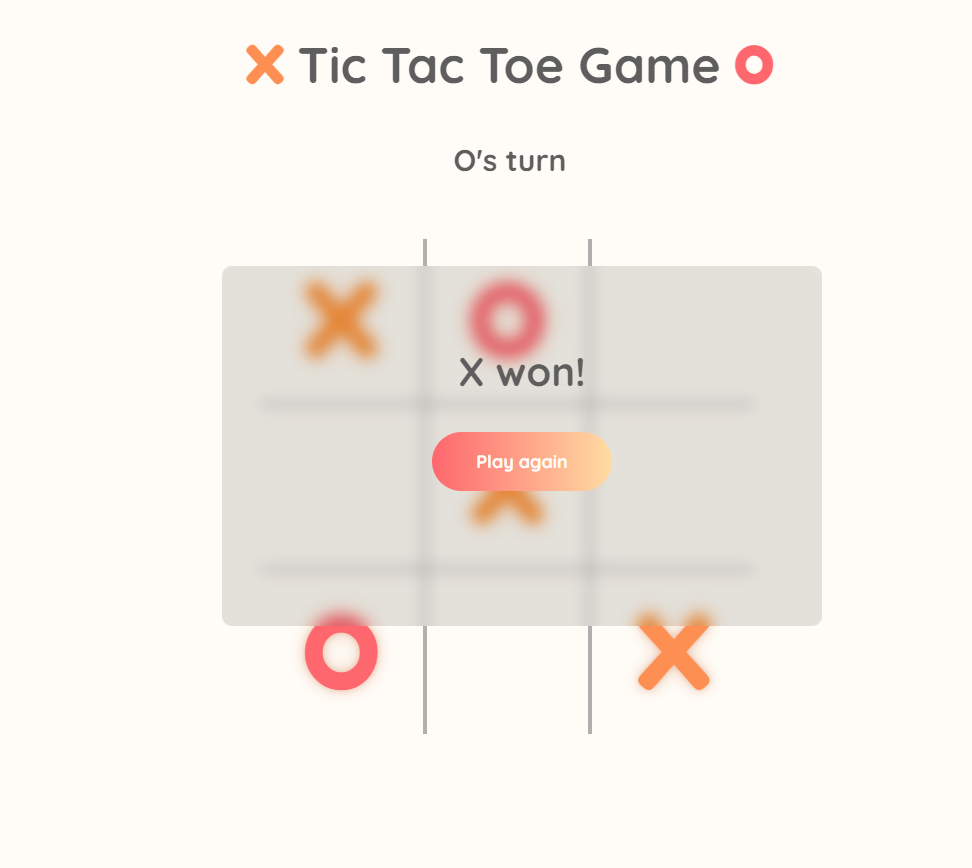
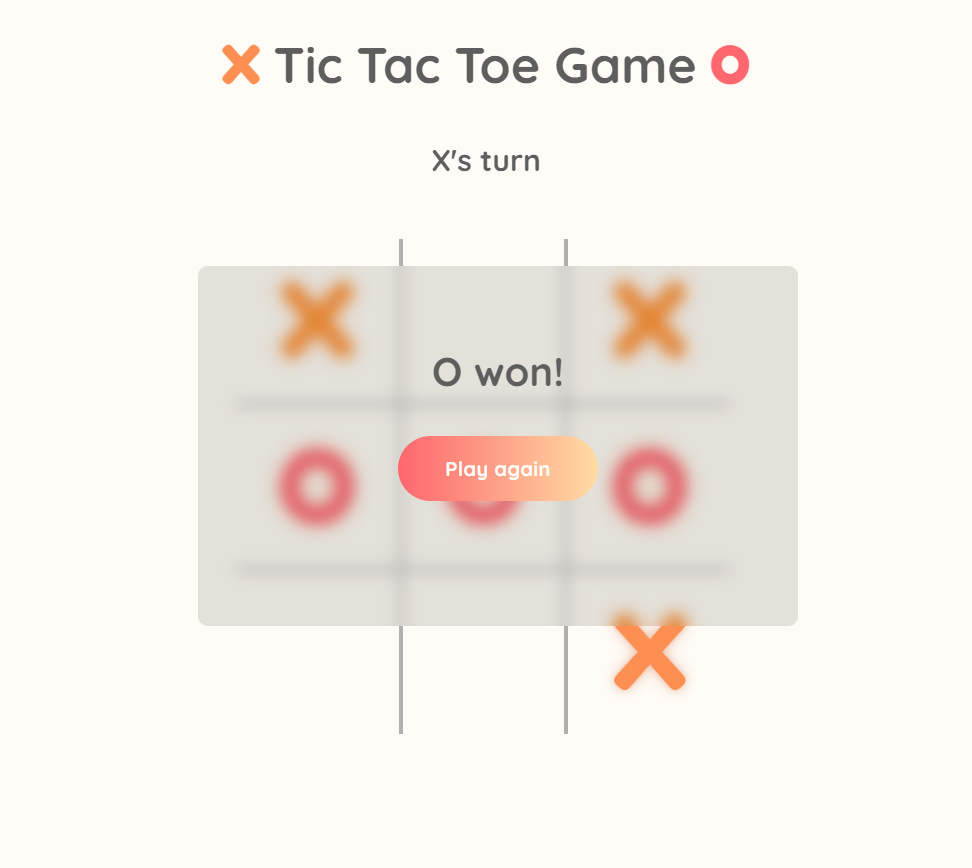
Week 6 Assignment 2 | Assignment has been updated

diff --git a/main.js b/main.js
@@ -1,5 +1,5 @@
 //Oyundaki tum kareler secilir
-let tiles = Array.from(document.querySelectorAll(".tile"));
+let tiles = document.querySelectorAll(".tile");
 //Siranin hangi oyuncuda oldugunu gosteren alan secilir
 let playerTurn = document.querySelector(".player__turn");
 let gameResult = document.querySelector(".game-result__text");
@@ -8,7 +8,6 @@ let playAgainArea = document.querySelector(".invisible");
 //Oyun bittiginde tum karelerin icini sifirlayan butonu sectik
 let restart = document.querySelector("#btn__restart");
 let player = "X";
-let winner;
 let isGameOver = false;
 
 //Oyun basladiginda siranin hangi oyuncuda oldugunu soyluyoruz
@@ -57,10 +56,12 @@ const checkWin = () => {
     isPlayerWon = true;
     if (h1 || v1 || d1) {
       player = tiles[0].innerHTML;
-    } else if (h2 || v2) {
-      player = tiles[1].innerHTML;
-    } else if (h3 || v3 || d2) {
-      player = tiles[2].innerHTML;
+    } 
+    if (h2 || v2 || d2) {
+      player = tiles[4].innerHTML;
+    } 
+    if (h3 || v3 ) {
+      player = tiles[8].innerHTML;
     } 
   }
 
@@ -83,15 +84,18 @@ const checkWin = () => {
   isGameOver = false;
 };
 
-const handlePlay = (tile) => {
+
+const handlePlay = tile => {
   if (tile.innerHTML == "" && !isGameOver) {
     tile.innerHTML = player;
     console.log(isGameOver);
     //Karelere tiklandiktan sonra oyuncu X ise O'ya O ise X'e donusturulur. Boylece X'in hamlesi bittikten sonra sira O'ya gecer.
     if (player === "X") {
+      tile.classList.remove("player-o");
       tile.classList.add("player-x"); // oyuncu x icin belirledigimiz class'i atadik
       player = "O";
-    } else if (player === "O") {
+    } else {
+      tile.classList.remove("player-x");
       tile.classList.add("player-o");
       player = "X";
     }
@@ -111,11 +115,16 @@ const resetTheGame = (isGameOver) => {
     playAgainArea.classList.add("result-container");
   }
   isGameOver = false;
-
+  
+  
   //butona tiklaninca butun karelerin icini sifirlayan fonksiyon tetiklenir.
   restart.addEventListener("click", () => {
     playAgainArea.classList.remove("result-container");
     playAgainArea.classList.add("invisible");
-    tiles.forEach((tile) => (tile.innerHTML = ""));
+    tiles.forEach(tile => (tile.innerHTML = ""));
+    //Oyuncu sirasi ve oyuncu sirasini gosteren alan ilk haline donusturulur.
+    player = "X";
+    playerTurn.innerHTML = `${player}'s turn`;
   });
+  
 };

diff --git a/css/main.css b/css/main.css
@@ -5,7 +5,6 @@
           box-sizing: border-box;
 }
 
-/*https://yaroslavweb.github.io/Neon-Generator/*/
 body {
   background-color: #fffcf7;
 }
@@ -103,8 +102,6 @@ div.result-container {
   width: 30em;
   height: 18em;
   z-index: 3;
-  -webkit-transition: 0.5s;
-  transition: 0.5s;
   color: #5e5e5e;
   /* Glassmorphism */
   backdrop-filter: blur(6px) saturate(180%);
@@ -142,11 +139,12 @@ div.result-container div.result button#btn__restart {
   background: -webkit-gradient(linear, left top, right top, from(#fe676e), to(#ffdca2));
   background: linear-gradient(90deg, #fe676e 0%, #ffdca2 100%);
   font-family: "Quicksand", sans-serif;
-  font-size: 0.9em;
+  font-size: 1em;
   padding: 1em;
   width: 10em;
   border-radius: 2em;
   border: none;
+  letter-spacing: 0.3px;
 }
 
 div.result-container div.result button#btn__restart:hover {
@@ -155,64 +153,5 @@ div.result-container div.result button#btn__restart:hover {
   transition: 0.4s;
   background: linear-gradient(45deg, #fe676e 0%, #ffdca2 100%);
   border: none;
-}
-
-@media only screen and (max-width: 400px) {
-  h1 {
-    font-size: 1em;
-  }
-  h4.player__turn {
-    font-size: 0.6em;
-  }
-  section.container {
-    max-width: 15em;
-    max-height: 15em;
-  }
-  section.container div.tile {
-    font-size: 3em;
-  }
-  div.result-container {
-    width: 8em;
-    height: 5em;
-    top: 20%;
-    left: 10%;
-  }
-  div.result-container div.result {
-    margin-top: 2em;
-  }
-  div.result-container div.result .game-result__text {
-    font-size: 0.8em;
-  }
-  div.result-container div.result button#btn__restart {
-    font-size: 0.6em;
-    padding: 0.5em;
-    width: 8em;
-    border-radius: 2em;
-  }
-}
-
-@media only screen and (max-width: 800px) {
-  h1 {
-    font-size: 1.5em;
-  }
-  h4.player__turn {
-    font-size: 0.8em;
-  }
-  div.result-container {
-    width: 25em;
-    height: 14em;
-  }
-  div.result-container div.result {
-    margin-top: 3em;
-  }
-  div.result-container div.result .game-result__text {
-    font-size: 1.4em;
-  }
-  div.result-container div.result button#btn__restart {
-    font-size: 0.8em;
-    padding: 0.8em;
-    width: 10em;
-    border-radius: 2em;
-  }
 }
 /*# sourceMappingURL=main.css.map */

diff --git a/css/main.scss b/css/main.scss
@@ -130,11 +130,12 @@ div.result-container {
         color: $bg-color;
         background: $bg-color__button;
         font-family: $font-heading;
-        font-size: 0.9em;
+        font-size: 1em;
         padding: 1em;
         width: 10em;
         border-radius: 2em;
         border: none;
+        letter-spacing: 0.3px;
         &:hover{
           cursor: pointer;
           transition: 0.4s;

diff --git a/README.md b/README.md
@@ -2,7 +2,6 @@
 
 This repository contains the assignment of Patika.dev & Bupa Acıbadem Sigorta Full Stack Bootcamp. Tic Tac Toe Game was developed by using HTML, SCSS and pure JavaScript.
 
-
 ## Screenshots
 
 ![](./screenshots/1.png)
